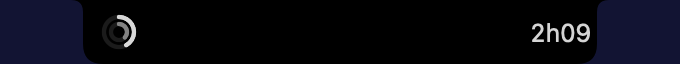
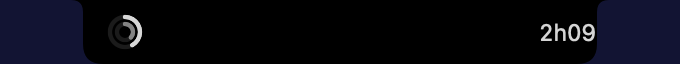
README: show the notch at rest near the top
Re-rendered from a made-up reading with the new ear spacing.

Changed region(s): [[0.7721, 0.3438, 0.8956, 0.6875], [0.1235, 0.2188, 0.2162, 0.75]]

diff --git a/README.md b/README.md
@@ -13,6 +13,13 @@ and never calls Anthropic itself.
 > falls back to `claude -p "/usage"`, and if that also changes, the notch shows the last reading
 > with its age rather than wrong numbers. Expect to update the app when Claude Code changes.
 
+Most of the time it sits beside the notch like this: two rings on the left for the 5-hour and
+weekly limits, and the time until the 5-hour reset on the right.
+
+![Hourglass at rest beside the notch](screenshots/rest.png)
+
+Hover for a quick look, or click to open the full view:
+
 ![The expanded notch](screenshots/open.png)
 
 ## What it shows
